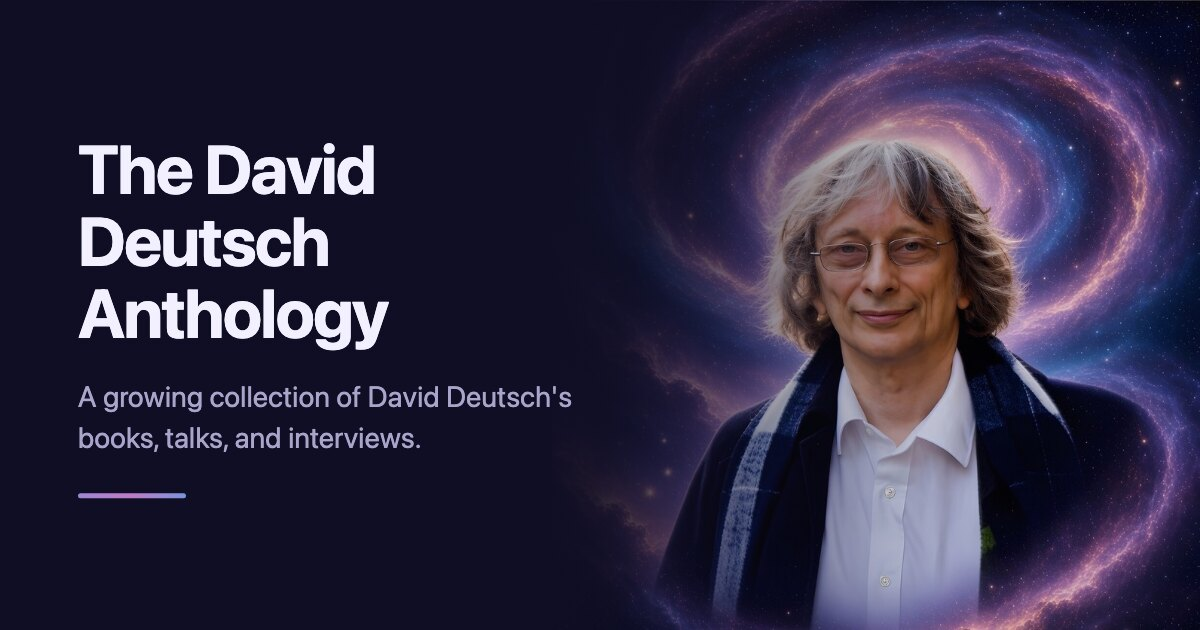
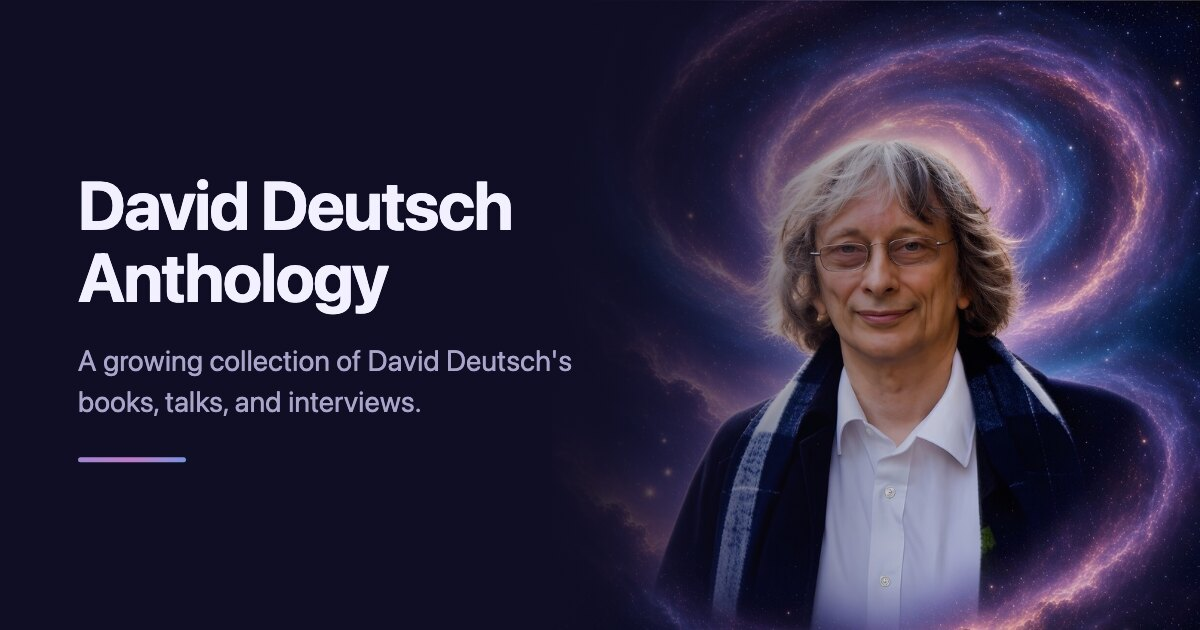
Drop the article from the card headline
Set at 68px the "The" reads as filler, and it cost the headline a third line.
The page keeps its full title; only the card is set this way.

---

Generated with the help of Claude Code, https://claude.com/claude-code

Changed region(s): [[0.0617, 0.2111, 0.4933, 0.754], [0.0617, 0.7841, 0.1542, 0.8143]]

diff --git a/bin/generate_og_card.rb b/bin/generate_og_card.rb
@@ -71,7 +71,8 @@ def page(art)
       <div class="art"></div>
       <div class="fade"></div>
       <div class="text">
-        <h1>#{Site::TITLE}</h1>
+        <!-- Set as display type, the article reads as filler and costs a line. -->
+        <h1>#{Site::TITLE.delete_prefix('The ')}</h1>
         <p>#{Site::DESCRIPTION}</p>
         <div class="rule"></div>
       </div>
